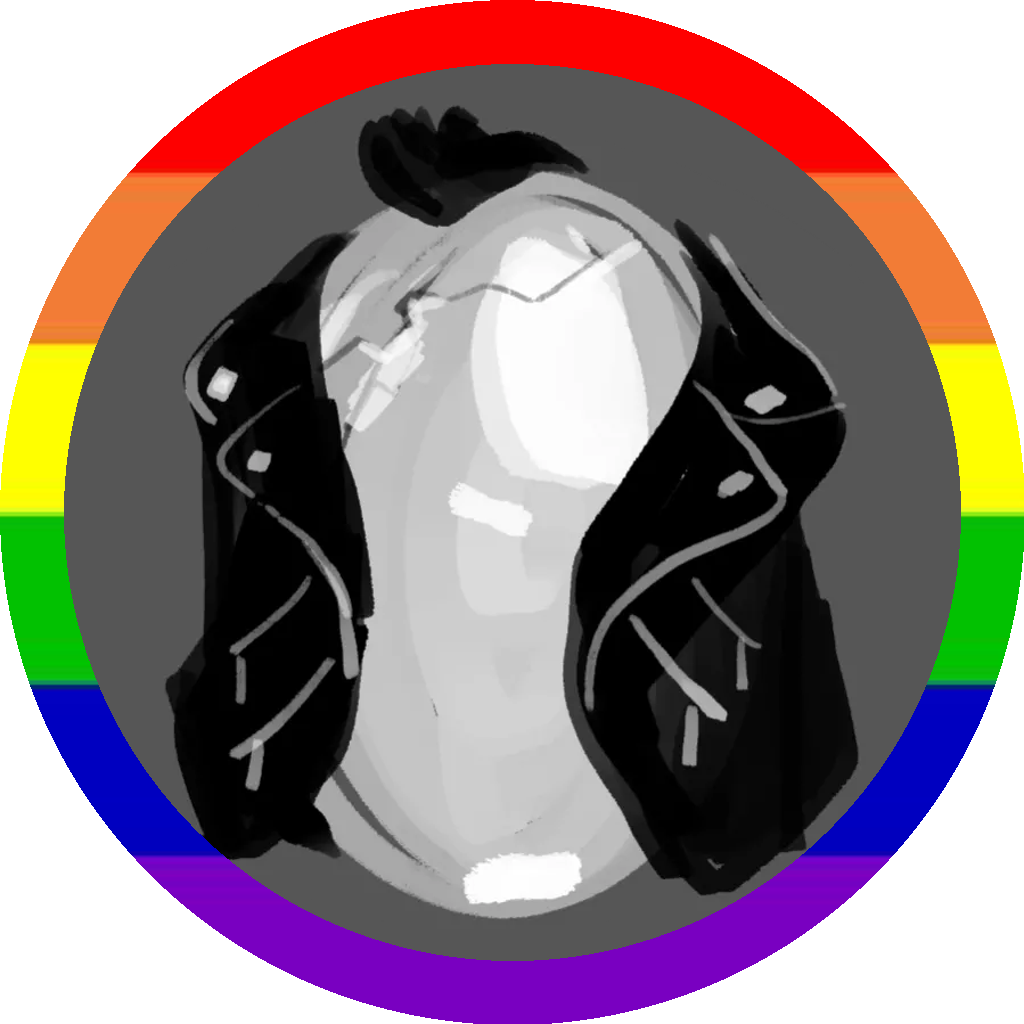
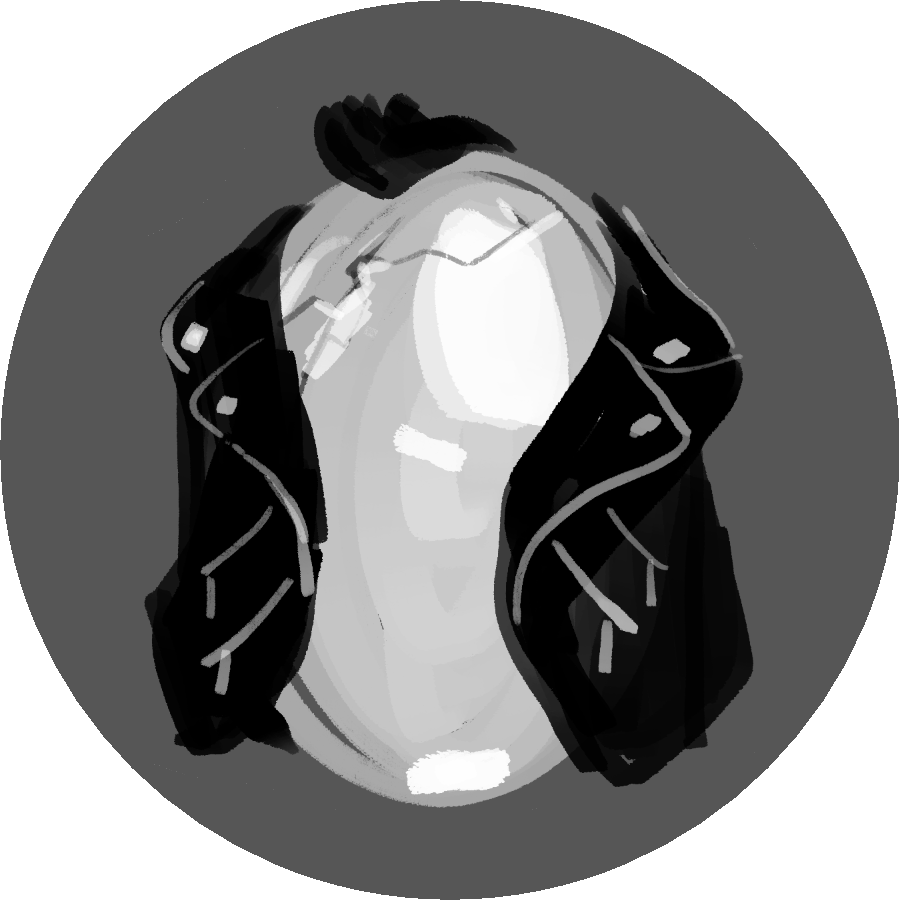
update

diff --git a/docs/stylesheets/extra.css b/docs/stylesheets/extra.css
@@ -1,3 +1,3 @@
 :root>* {
-    --md-primary-fg-color: #d069a4;
+    --md-primary-fg-color: #565656;
 }

diff --git a/docs/index.md b/docs/index.md
@@ -4,7 +4,6 @@
 
 I'm Preocts.
 
-* Current career focus is helping people dislike being on on-call less
 * Most of my work here is learning, exploration, and refinement of patterns
 * I write fantasy adventure short stories
 * On the weekends I play Minecraft
